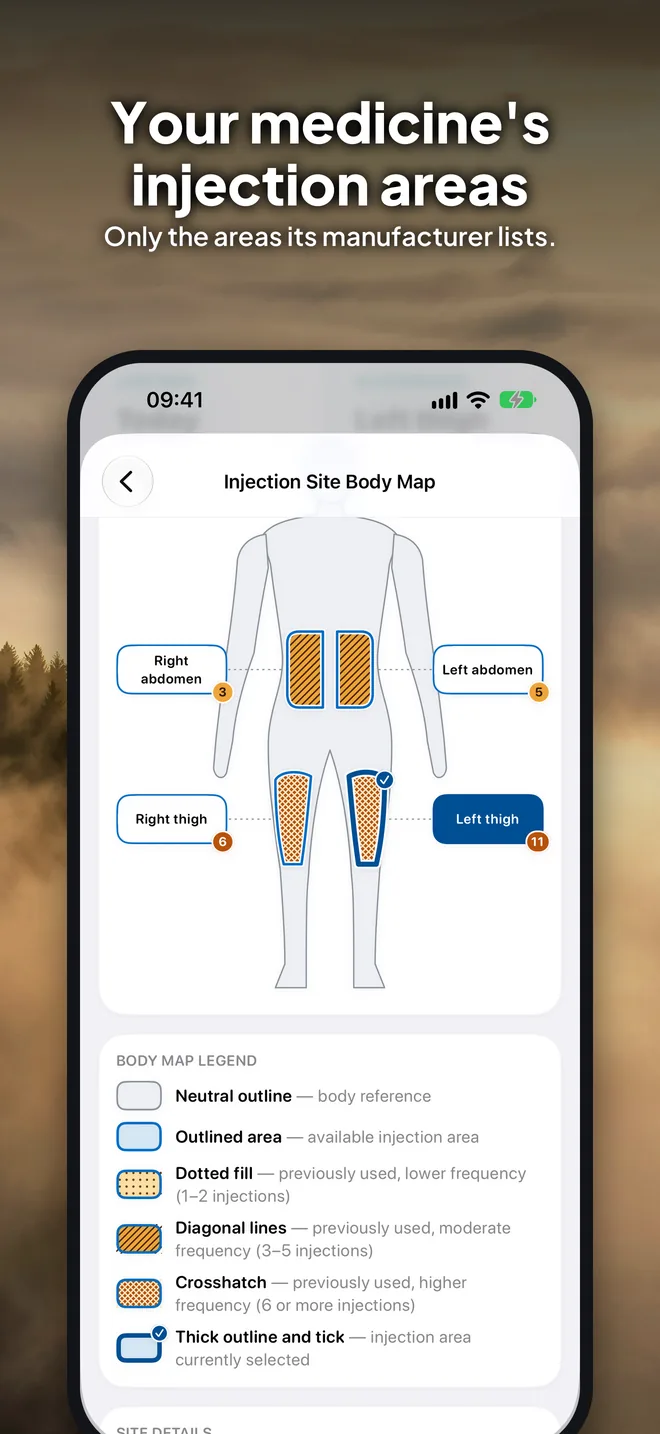
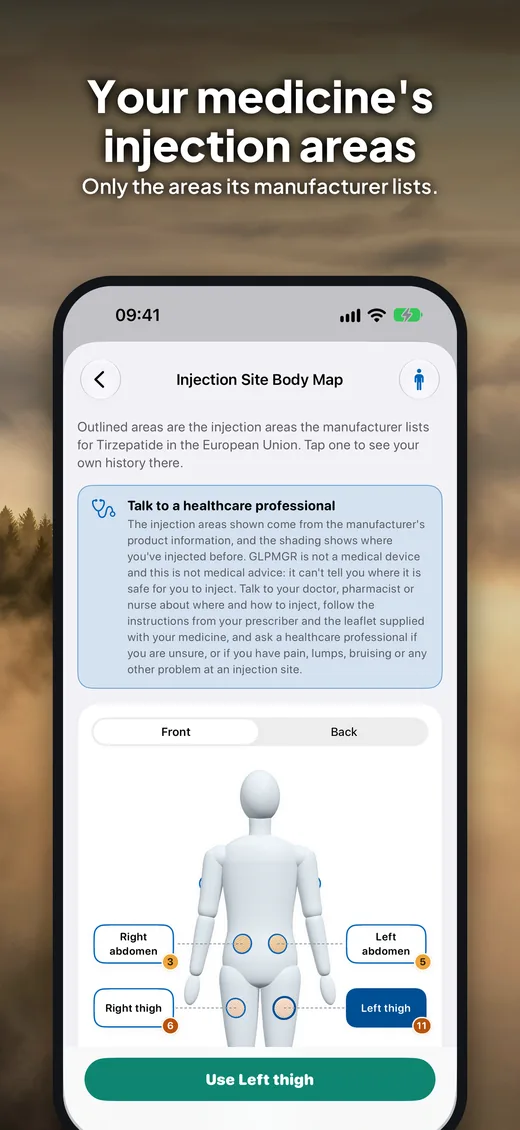
GLPMGR 2.2 is out: ship log, iPhone Duo, Quick to log, the ten 2.2 panels (3D body map) and the 2.2 Today and iPad screens; the 2.2 feedback-board release file (posted and shipped, #130-#141)

Changed region(s): [[0.1231, 0.3717, 0.8615, 1.0], [0.8, 0.3097, 0.8308, 0.3407]]

diff --git a/glpmgr.html b/glpmgr.html
@@ -42,34 +42,34 @@
 <section class="hero app-hero" style="--hero-img:url(/assets/img/home/morning.webp)"><div class="wrap hero-grid">
   <div>
     <p class="crumbs"><a href="index.html">iSafeNet</a> / <a href="index.html#apps">Apps</a> / GLPMGR</p>
-    <div class="app-id" style="margin-top:22px"><img src="assets/img/apps/glpmgr-icon.png" width="84" height="84" alt="GLPMGR app icon"><div><a class="live" href="https://apps.apple.com/app/glpmgr-glp-1-tracker/id6814282972"><svg viewBox="0 0 24 24" fill="none" stroke="currentColor" stroke-width="2" stroke-linecap="round" stroke-linejoin="round" aria-hidden="true"><path d="M5 7h14l-1 13H6L5 7z"/><path d="M9 7a3 3 0 0 1 6 0"/></svg> Available on the App Store</a><div class="kind" style="margin-top:8px">Health &amp; Fitness · iPhone, iPad &amp; Apple Watch</div></div></div>
+    <div class="app-id" style="margin-top:22px"><img src="assets/img/apps/glpmgr-icon.png" width="84" height="84" alt="GLPMGR app icon"><div><a class="live" href="https://apps.apple.com/app/glpmgr-glp-1-tracker/id6814282972"><svg viewBox="0 0 24 24" fill="none" stroke="currentColor" stroke-width="2" stroke-linecap="round" stroke-linejoin="round" aria-hidden="true"><path d="M5 7h14l-1 13H6L5 7z"/><path d="M9 7a3 3 0 0 1 6 0"/></svg> Available on the App Store</a><div class="kind" style="margin-top:8px">Health &amp; Fitness · iPhone, iPhone Duo, iPad &amp; Apple Watch</div></div></div>
     <h1>GLPMGR: <span class="grad">Your GLP-1 journey, tracked privately.</span></h1>
     <p class="lead">GLPMGR helps people on GLP-1 medicines keep track of their doses, dose steps, weight and how they feel, without an account and without their data leaving their device. It's written in plain English, with a gentle tone and no judgement, for Mounjaro, Wegovy, Ozempic and other GLP-1 medicines.</p>
     <div class="cta-row"><a class="btn" href="https://apps.apple.com/app/glpmgr-glp-1-tracker/id6814282972">Get it on the App Store</a><a class="btn ghost" href="https://glpmgr.isafenet.app/">Visit the GLPMGR website <svg viewBox="0 0 24 24" fill="none" stroke="currentColor" stroke-width="2" stroke-linecap="round" stroke-linejoin="round" aria-hidden="true"><path d="M7 17 17 7"/><path d="M8 7h9v9"/></svg></a><a class="btn ghost" href="https://glpmgr.isafenet.app/glossary.html">GLP-1 words explained</a></div>
-    <ul class="chips" aria-label="Platforms and features"><li>iPhone</li><li>iPad</li><li>Apple Watch</li><li>Widgets</li><li>Live Activities</li><li>Apple Health</li></ul>
+    <ul class="chips" aria-label="Platforms and features"><li>iPhone</li><li>iPhone Duo</li><li>iPad</li><li>Apple Watch</li><li>Widgets</li><li>Live Activities</li><li>Apple Health</li></ul>
   </div>
-  <div class="devices" aria-label="Screens from GLPMGR"><div class="phone panel p1"><img class="" src="assets/img/apps/glpmgr-titration.webp" width="660" height="1434" alt="GLPMGR dose steps in the dosing schedule" decoding="async"></div><div class="phone panel p2"><img class="" src="assets/img/apps/glpmgr-at-a-glance.webp" width="660" height="1434" alt="GLPMGR Today screen with next dose, goal, water and protein" decoding="async"></div><div class="phone panel p3"><img class="" src="assets/img/apps/glpmgr-trends.webp" width="660" height="1434" alt="GLPMGR weight trends chart with every dose marked" decoding="async"></div></div>
+  <div class="devices" aria-label="Screens from GLPMGR"><div class="phone panel p1"><img class="" src="assets/img/apps/glpmgr-one-tap.webp" width="520" height="1130" alt="GLPMGR Quick Log adding a glass of water in one tap, with Undo" decoding="async"></div><div class="phone panel p2"><img class="" src="assets/img/apps/glpmgr-at-a-glance.webp" width="520" height="1130" alt="GLPMGR Today screen with the next dose, Log Injection, one-tap logging and your journey" decoding="async"></div><div class="phone panel p3"><img class="" src="assets/img/apps/glpmgr-trends.webp" width="520" height="1130" alt="GLPMGR weight trends chart with every dose marked" decoding="async"></div></div>
 </div></section>
 
 <section><div class="wrap">
   <div class="sec-head rv"><span class="eyebrow">Highlights</span><h2>What GLPMGR does.</h2></div>
-  <div class="grid"><article class="card rv"><div class="ico"><svg viewBox="0 0 24 24" fill="none" stroke="currentColor" stroke-width="2" stroke-linecap="round" stroke-linejoin="round" aria-hidden="true"><path d="M6 8a6 6 0 0 1 12 0c0 7 3 9 3 9H3s3-2 3-9"/><path d="M10.3 21a1.94 1.94 0 0 0 3.4 0"/></svg></div><h3>Doses &amp; reminders</h3><p>Log injections or tablets in a few taps. Reminders your way: a heads-up before a dose, a follow-up if it isn't logged, Log Dose and Snooze buttons, and low-supply alerts.</p></article><article class="card rv"><div class="ico"><svg viewBox="0 0 24 24" fill="none" stroke="currentColor" stroke-width="2" stroke-linecap="round" stroke-linejoin="round" aria-hidden="true"><path d="M3 3v18h18"/><path d="m19 9-5 5-4-4-3 3"/></svg></div><h3>Dose steps</h3><p>Enter the steps your prescriber gave you and GLPMGR fills in the right dose each time, with each medicine's own leaflet wording on dose steps and missed doses.</p></article><article class="card rv"><div class="ico"><svg viewBox="0 0 24 24" fill="none" stroke="currentColor" stroke-width="2" stroke-linecap="round" stroke-linejoin="round" aria-hidden="true"><circle cx="12" cy="12" r="9"/><path d="m15.5 8.5-2 5-5 2 2-5z"/></svg></div><h3>Your whole journey</h3><p>New in 2.0: set up from wherever you are, from your first dose to maintenance. Something Changed? logs a step up or down, a break or finishing in plain English, and you can bring your doses from another app.</p></article><article class="card rv"><div class="ico"><svg viewBox="0 0 24 24" fill="none" stroke="currentColor" stroke-width="2" stroke-linecap="round" stroke-linejoin="round" aria-hidden="true"><path d="m3 6 6-3 6 3 6-3v15l-6 3-6-3-6 3z"/><path d="M9 3v15M15 6v15"/></svg></div><h3>Injection sites</h3><p>Only the areas each manufacturer lists for your region, with a body map of where you've injected before (Premium).</p></article><article class="card rv"><div class="ico"><svg viewBox="0 0 24 24" fill="none" stroke="currentColor" stroke-width="2" stroke-linecap="round" stroke-linejoin="round" aria-hidden="true"><path d="M19 14c1.49-1.46 3-3.21 3-5.5A5.5 5.5 0 0 0 16.5 3c-1.76 0-3 .5-4.5 2-1.5-1.5-2.74-2-4.5-2A5.5 5.5 0 0 0 2 8.5c0 2.3 1.5 4.05 3 5.5l7 7Z"/></svg></div><h3>Weight &amp; side effects</h3><p>A gentle view of your progress, and a diary for how you feel, ready to share with your doctor or nurse.</p></article><article class="card rv"><div class="ico"><svg viewBox="0 0 24 24" fill="none" stroke="currentColor" stroke-width="2" stroke-linecap="round" stroke-linejoin="round" aria-hidden="true"><path d="M14.5 4h-5L7 7H4a2 2 0 0 0-2 2v9a2 2 0 0 0 2 2h16a2 2 0 0 0 2-2V9a2 2 0 0 0-2-2h-3z"/><circle cx="12" cy="13" r="3"/></svg></div><h3>Water, protein &amp; food</h3><p>Log water with one tap. With Premium, track protein: search thousands of foods, or scan a barcode or a nutrition label.</p></article><article class="card rv"><div class="ico"><svg viewBox="0 0 24 24" fill="none" stroke="currentColor" stroke-width="2" stroke-linecap="round" stroke-linejoin="round" aria-hidden="true"><rect x="4" y="11" width="16" height="10" rx="3"/><path d="M8 11V7a4 4 0 0 1 8 0v4"/></svg></div><h3>Private by design</h3><p>No account, no ads, no tracking, nothing in iCloud. Hide Medicine Names keeps your medicine off the Lock Screen, and progress photos are locked behind Face ID.</p></article></div>
+  <div class="grid"><article class="card rv"><div class="ico"><svg viewBox="0 0 24 24" fill="none" stroke="currentColor" stroke-width="2" stroke-linecap="round" stroke-linejoin="round" aria-hidden="true"><path d="M6 8a6 6 0 0 1 12 0c0 7 3 9 3 9H3s3-2 3-9"/><path d="M10.3 21a1.94 1.94 0 0 0 3.4 0"/></svg></div><h3>Doses &amp; reminders</h3><p>Log injections or tablets in a few taps. Reminders your way: a heads-up before a dose, a follow-up if it isn't logged, Log Dose and Snooze buttons, and low-supply alerts.</p></article><article class="card rv"><div class="ico"><svg viewBox="0 0 24 24" fill="none" stroke="currentColor" stroke-width="2" stroke-linecap="round" stroke-linejoin="round" aria-hidden="true"><path d="M12 5v14M5 12h14"/></svg></div><h3>Quick to log</h3><p>New in 2.2: Quick Log adds a glass of water or protein in one tap, Log Injection sits on Next Dose, and a dose fits on one screen. Made for iPhone Duo too.</p></article><article class="card rv"><div class="ico"><svg viewBox="0 0 24 24" fill="none" stroke="currentColor" stroke-width="2" stroke-linecap="round" stroke-linejoin="round" aria-hidden="true"><path d="M3 3v18h18"/><path d="m19 9-5 5-4-4-3 3"/></svg></div><h3>Dose steps</h3><p>Enter the steps your prescriber gave you and GLPMGR fills in the right dose each time, with each medicine's own leaflet wording on dose steps and missed doses.</p></article><article class="card rv"><div class="ico"><svg viewBox="0 0 24 24" fill="none" stroke="currentColor" stroke-width="2" stroke-linecap="round" stroke-linejoin="round" aria-hidden="true"><circle cx="12" cy="12" r="9"/><path d="m15.5 8.5-2 5-5 2 2-5z"/></svg></div><h3>Your whole journey</h3><p>Set up from wherever you are, from your first dose to maintenance. Something Changed? logs a step up or down, a break or finishing in plain English, and you can bring your doses from another app.</p></article><article class="card rv"><div class="ico"><svg viewBox="0 0 24 24" fill="none" stroke="currentColor" stroke-width="2" stroke-linecap="round" stroke-linejoin="round" aria-hidden="true"><path d="m3 6 6-3 6 3 6-3v15l-6 3-6-3-6 3z"/><path d="M9 3v15M15 6v15"/></svg></div><h3>Injection sites</h3><p>Only the areas each manufacturer lists for your region, with a body map of where you've injected before (Premium).</p></article><article class="card rv"><div class="ico"><svg viewBox="0 0 24 24" fill="none" stroke="currentColor" stroke-width="2" stroke-linecap="round" stroke-linejoin="round" aria-hidden="true"><path d="M19 14c1.49-1.46 3-3.21 3-5.5A5.5 5.5 0 0 0 16.5 3c-1.76 0-3 .5-4.5 2-1.5-1.5-2.74-2-4.5-2A5.5 5.5 0 0 0 2 8.5c0 2.3 1.5 4.05 3 5.5l7 7Z"/></svg></div><h3>Weight &amp; side effects</h3><p>A gentle view of your progress, and a diary for how you feel, ready to share with your doctor or nurse.</p></article><article class="card rv"><div class="ico"><svg viewBox="0 0 24 24" fill="none" stroke="currentColor" stroke-width="2" stroke-linecap="round" stroke-linejoin="round" aria-hidden="true"><path d="M14.5 4h-5L7 7H4a2 2 0 0 0-2 2v9a2 2 0 0 0 2 2h16a2 2 0 0 0 2-2V9a2 2 0 0 0-2-2h-3z"/><circle cx="12" cy="13" r="3"/></svg></div><h3>Water, protein &amp; food</h3><p>Log water with one tap. With Premium, track protein: search thousands of foods, or scan a barcode or a nutrition label.</p></article><article class="card rv"><div class="ico"><svg viewBox="0 0 24 24" fill="none" stroke="currentColor" stroke-width="2" stroke-linecap="round" stroke-linejoin="round" aria-hidden="true"><rect x="4" y="11" width="16" height="10" rx="3"/><path d="M8 11V7a4 4 0 0 1 8 0v4"/></svg></div><h3>Private by design</h3><p>No account, no ads, no tracking, nothing in iCloud. Hide Medicine Names keeps your medicine off the Lock Screen, and progress photos are locked behind Face ID.</p></article></div>
 </div></section>
 
 <section class="alt" aria-label="GLPMGR screens" style="padding-bottom:70px"><div class="wrap">
   <div class="sec-head rv"><span class="eyebrow">Screens</span><h2>A closer look.</h2><p>Swipe through the real app.</p></div></div>
-  <div class="rail" role="group" aria-label="GLPMGR screenshots" tabindex="0"><img class="" src="assets/img/apps/glpmgr-at-a-glance.webp" width="660" height="1434" alt="GLPMGR Today screen with next dose, goal, water and protein" loading="lazy" decoding="async"><img class="" src="assets/img/apps/glpmgr-trends.webp" width="660" height="1434" alt="GLPMGR weight trends chart with every dose marked" loading="lazy" decoding="async"><img class="" src="assets/img/apps/glpmgr-daily-habits.webp" width="660" height="1434" alt="GLPMGR daily protein totals against a goal" loading="lazy" decoding="async"><img class="" src="assets/img/apps/glpmgr-scan-a-label.webp" width="660" height="1434" alt="GLPMGR reading the protein figure from a food label" loading="lazy" decoding="async"><img class="" src="assets/img/apps/glpmgr-private-photos.webp" width="660" height="1434" alt="GLPMGR progress photos locked behind Face ID" loading="lazy" decoding="async"><img class="" src="assets/img/apps/glpmgr-titration.webp" width="660" height="1434" alt="GLPMGR dose steps in the dosing schedule" loading="lazy" decoding="async"><img class="" src="assets/img/apps/glpmgr-injection-areas.webp" width="660" height="1434" alt="GLPMGR injection body map showing the areas the manufacturer lists" loading="lazy" decoding="async"><img class="" src="assets/img/apps/glpmgr-reminders.webp" width="660" height="1434" alt="GLPMGR dose reminder on the lock screen" loading="lazy" decoding="async"><img class="" src="assets/img/apps/glpmgr-on-your-wrist.webp" width="660" height="1434" alt="GLPMGR on Apple Watch showing the next dose and weight trend" loading="lazy" decoding="async"></div>
+  <div class="rail" role="group" aria-label="GLPMGR screenshots" tabindex="0"><img class="" src="assets/img/apps/glpmgr-at-a-glance.webp" width="520" height="1130" alt="GLPMGR Today screen with the next dose, Log Injection, one-tap logging and your journey" loading="lazy" decoding="async"><img class="" src="assets/img/apps/glpmgr-one-tap.webp" width="520" height="1130" alt="GLPMGR Quick Log adding a glass of water in one tap, with Undo" loading="lazy" decoding="async"><img class="" src="assets/img/apps/glpmgr-log-a-dose.webp" width="520" height="1130" alt="GLPMGR Record Injection on one screen, with the injection areas" loading="lazy" decoding="async"><img class="" src="assets/img/apps/glpmgr-start-anywhere.webp" width="520" height="1130" alt="GLPMGR Journey Setup, starting from wherever you are" loading="lazy" decoding="async"><img class="" src="assets/img/apps/glpmgr-trends.webp" width="520" height="1130" alt="GLPMGR weight trends chart with every dose marked" loading="lazy" decoding="async"><img class="" src="assets/img/apps/glpmgr-daily-habits.webp" width="520" height="1130" alt="GLPMGR daily protein totals against a goal" loading="lazy" decoding="async"><img class="" src="assets/img/apps/glpmgr-private.webp" width="520" height="1130" alt="GLPMGR progress photos locked behind Face ID" loading="lazy" decoding="async"><img class="" src="assets/img/apps/glpmgr-injection-areas.webp" width="520" height="1130" alt="GLPMGR 3D injection body map showing the areas the manufacturer lists" loading="lazy" decoding="async"><img class="" src="assets/img/apps/glpmgr-reminders.webp" width="520" height="1130" alt="GLPMGR dose reminder on the lock screen" loading="lazy" decoding="async"><img class="" src="assets/img/apps/glpmgr-on-your-wrist.webp" width="520" height="1130" alt="GLPMGR on Apple Watch showing the next dose and weight trend" loading="lazy" decoding="async"></div>
 </section>
 
 <section><div class="wrap split">
   <div class="rv">
     <span class="eyebrow">Made for Apple devices</span>
     <h2 style="font-size:clamp(1.9rem,3.4vw,2.6rem);margin:12px 0 18px">Native on every screen it runs on.</h2>
-    <ul class="ticks"><li><svg viewBox="0 0 24 24" fill="none" stroke="currentColor" stroke-width="2" stroke-linecap="round" stroke-linejoin="round" aria-hidden="true"><path d="M20 6 9 17l-5-5"/></svg><span><b>iPhone &amp; iPad:</b> Native layouts for each, with up to three columns of tiles on a larger iPad.</span></li><li><svg viewBox="0 0 24 24" fill="none" stroke="currentColor" stroke-width="2" stroke-linecap="round" stroke-linejoin="round" aria-hidden="true"><path d="M20 6 9 17l-5-5"/></svg><span><b>Apple Watch:</b> Your next dose, weight, water and protein, one screen each. With Premium, a dose alarm that taps your wrist until you tap Taken.</span></li><li><svg viewBox="0 0 24 24" fill="none" stroke="currentColor" stroke-width="2" stroke-linecap="round" stroke-linejoin="round" aria-hidden="true"><path d="M20 6 9 17l-5-5"/></svg><span><b>Widgets &amp; Live Activities:</b> Your next dose, water, protein, weight and journey on the Home Screen and Lock Screen, with a countdown when a dose is near (Premium).</span></li><li><svg viewBox="0 0 24 24" fill="none" stroke="currentColor" stroke-width="2" stroke-linecap="round" stroke-linejoin="round" aria-hidden="true"><path d="M20 6 9 17l-5-5"/></svg><span><b>Built with:</b> Swift 6, SwiftUI, SwiftData, HealthKit, WidgetKit, ActivityKit, Vision, CryptoKit and StoreKit 2.</span></li></ul>
+    <ul class="ticks"><li><svg viewBox="0 0 24 24" fill="none" stroke="currentColor" stroke-width="2" stroke-linecap="round" stroke-linejoin="round" aria-hidden="true"><path d="M20 6 9 17l-5-5"/></svg><span><b>iPhone, iPhone Duo &amp; iPad:</b> Native layouts for each. On iPad in landscape, Today fits on one screen, and iPhone Duo gets its own layouts open, half open and closed.</span></li><li><svg viewBox="0 0 24 24" fill="none" stroke="currentColor" stroke-width="2" stroke-linecap="round" stroke-linejoin="round" aria-hidden="true"><path d="M20 6 9 17l-5-5"/></svg><span><b>Apple Watch:</b> Your next dose, weight, water and protein, one screen each. With Premium, a dose alarm that taps your wrist until you tap Taken.</span></li><li><svg viewBox="0 0 24 24" fill="none" stroke="currentColor" stroke-width="2" stroke-linecap="round" stroke-linejoin="round" aria-hidden="true"><path d="M20 6 9 17l-5-5"/></svg><span><b>Widgets &amp; Live Activities:</b> Your next dose, water, protein, weight and journey on the Home Screen and Lock Screen, with a countdown when a dose is near (Premium).</span></li><li><svg viewBox="0 0 24 24" fill="none" stroke="currentColor" stroke-width="2" stroke-linecap="round" stroke-linejoin="round" aria-hidden="true"><path d="M20 6 9 17l-5-5"/></svg><span><b>Built with:</b> Swift 6, SwiftUI, SwiftData, HealthKit, WidgetKit, ActivityKit, Vision, CryptoKit and StoreKit 2.</span></li></ul>
     <p style="color:var(--ink-2);margin-top:6px"><b>Pricing:</b> Free to use, with no time limits: doses and dose steps, reminders, weight, side effects, water, blood glucose, the Apple Watch app and backups. Premium adds more ways to see your progress, with a 7-day free trial on the yearly plan.</p>
     <p style="color:var(--ink-2);margin-top:12px"><b>Good to know:</b> GLPMGR is a personal tracking tool, not a medical device, and it never suggests a dose or where to inject. Always follow the advice of your doctor, nurse or pharmacist.</p>
   </div>
-  <div class="art pair"><img class="" src="assets/img/apps/glpmgr-ipad.webp" width="1000" height="1334" alt="GLPMGR on iPad showing the Today dashboard" loading="lazy" decoding="async"><img class="" src="assets/img/apps/glpmgr-watch.webp" width="416" height="496" alt="GLPMGR on Apple Watch" loading="lazy" decoding="async"></div>
+  <div class="art pair"><img class="" src="assets/img/apps/glpmgr-ipad.webp" width="1000" height="1334" alt="GLPMGR on iPad showing the Today screen" loading="lazy" decoding="async"><img class="" src="assets/img/apps/glpmgr-watch.webp" width="416" height="496" alt="GLPMGR on Apple Watch" loading="lazy" decoding="async"></div>
 </div></section>
 
 <section class="alt"><div class="wrap">

diff --git a/index.html b/index.html
@@ -54,7 +54,7 @@
       <header><span>Ship log</span><span>Oct 2026</span></header>
       <ol>
         <li style="--c:#4FB3EA"><span class="dot" aria-hidden="true"></span><a href="https://airreveal.isafenet.app/"><b>AirReveal</b><small>2.2: Runway View, your plane at the airport in 3D</small></a><span class="state">On the App Store</span></li>
-        <li style="--c:#2C93D1"><span class="dot" aria-hidden="true"></span><a href="https://glpmgr.isafenet.app/"><b>GLPMGR</b><small>2.0: your whole journey, from wherever you are</small></a><span class="state">On the App Store</span></li>
+        <li style="--c:#2C93D1"><span class="dot" aria-hidden="true"></span><a href="https://glpmgr.isafenet.app/"><b>GLPMGR</b><small>2.2: made for iPhone Duo, quicker every day</small></a><span class="state">On the App Store</span></li>
         <li style="--c:#35C79C"><span class="dot" aria-hidden="true"></span><a href="https://udapt.isafenet.app/"><b>Udapt</b><small>1.5: a morning reading, and a pace for race day</small></a><span class="state">On the App Store</span></li>
         <li style="--c:#FFC21A"><span class="dot pulse" aria-hidden="true"></span><span><b aria-label="A new app">· · ·</b><small>Something new · in the works</small></span><span class="state">Soon</span></li>
       </ol>
@@ -79,12 +79,12 @@
       </div>
     </article>
     <article class="shelf flip" id="glpmgr" style="--c:#2C93D1">
-      <div class="visual"><img class="photo" src="assets/img/home/morning.webp" width="800" height="1200" alt="A mug of tea in morning sunlight by a window" loading="lazy" decoding="async"><img class="phone" src="assets/img/home/glpmgr-today-1-8.webp" width="640" height="1391" alt="GLPMGR's Today screen with the next dose, goal, water and protein" loading="lazy" decoding="async"></div>
+      <div class="visual"><img class="photo" src="assets/img/home/morning.webp" width="800" height="1200" alt="A mug of tea in morning sunlight by a window" loading="lazy" decoding="async"><img class="phone" src="assets/img/home/glpmgr-today-2-2.webp" width="640" height="1391" alt="GLPMGR's Today screen with the next dose, Log Injection, one-tap logging and your journey" loading="lazy" decoding="async"></div>
       <div class="copy">
-        <div class="idline"><img src="assets/img/apps/glpmgr-icon.png" width="58" height="58" alt=""><div><h3>GLPMGR</h3><small>Health &amp; Fitness · iPhone, iPad &amp; Apple Watch</small></div></div>
+        <div class="idline"><img src="assets/img/apps/glpmgr-icon.png" width="58" height="58" alt=""><div><h3>GLPMGR</h3><small>Health &amp; Fitness · iPhone, iPhone Duo, iPad &amp; Apple Watch</small></div></div>
         <p class="say">Your GLP-1 journey, tracked privately.</p>
-        <ul><li>Dose reminders, dose steps (titration) and low-supply alerts</li><li>Injection areas taken only from each manufacturer's own leaflet</li><li>Weight, side effects, water, protein and blood glucose, gently</li><li>No account and no tracking: everything stays on your device</li></ul>
-        <div class="chips"><span>iPhone</span><span>iPad</span><span>Apple Watch</span><span>Widgets</span><span>Live Activities</span><span>Apple Health</span></div>
+        <ul><li>Dose reminders, dose steps (titration) and low-supply alerts</li><li>Injection areas taken only from each manufacturer's own leaflet</li><li>Weight, side effects, water, protein and blood glucose, gently</li><li>No account and no tracking: everything stays on your own devices</li></ul>
+        <div class="chips"><span>iPhone</span><span>iPhone Duo</span><span>iPad</span><span>Apple Watch</span><span>Widgets</span><span>Live Activities</span><span>Apple Health</span></div>
         <div class="links"><a class="store" href="https://apps.apple.com/app/glpmgr-glp-1-tracker/id6814282972">Get it on the App Store</a><a class="textlink" href="https://glpmgr.isafenet.app/">Website</a><a class="textlink" href="glpmgr.html">About GLPMGR</a></div>
       </div>
     </article>
